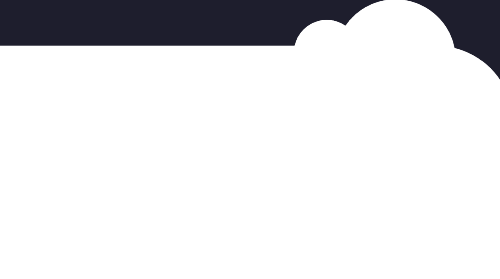
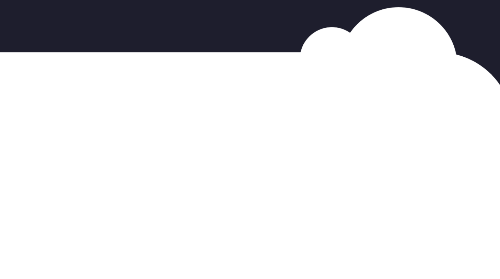
another responsive update

Changed region(s): [[0.0, 0.0, 0.87, 0.2007], [0.9, 0.172, 1.0, 0.3154], [0.87, 0.0573, 0.9, 0.1147]]

diff --git a/src/components/Footer.jsx b/src/components/Footer.jsx
@@ -7,8 +7,8 @@ import { navLinks } from '../constants'
 const Footer = () => {
     const [active, setActive] = useState('');
     return (
-        <nav className={`${styles.paddingX} w-full flex items-center py-5 bottom-0  absolute bg-transparent xs:mt-5`}>
-            <div className='w-full flex justify-center items-center max-w-7xl mx-auto flex-col'>
+        <nav className={`${styles.paddingX} w-full contents items-center py-5 bottom-0  absolute bg-transparent xs:mt-5`}>
+            <div className='w-full flex justify-center items-center max-w-7xl mx-auto flex-col py-2'>
                 <ul className='list-none hidden sm:flex flex-row gap-10'>
                     {navLinks.map((link) => (
                         <li key={link.id} >

diff --git a/src/components/Contact.jsx b/src/components/Contact.jsx
@@ -50,7 +50,7 @@ const Contact = () => {
   }
 
   return (
-    <div className='xl:mt-[250px] xl:mb-[350px] xl:flex-row flex-col-reverse
+    <div className='xl:mt-[250px] xl:mb-[350px] xl:flex-row
     gap-10 overflow-hidden z-20'>
       <motion.div
         variants={slideIn('left', 'tween', 0.2, 1)}
@@ -58,7 +58,7 @@ const Contact = () => {
       >
         <p className={styles.sectionSubText}>Get in touch</p>
         <h3 className={styles.sectionHeadText}>Contact.</h3>
-        <div className='xs:flex-col-reverse flex-row flex justify-between'>
+        <div className='xs:flex-row laptop:flex-col-reverse flex justify-between'>
 
           <form ref={formRef}
             onSubmit={handleSubmit}
